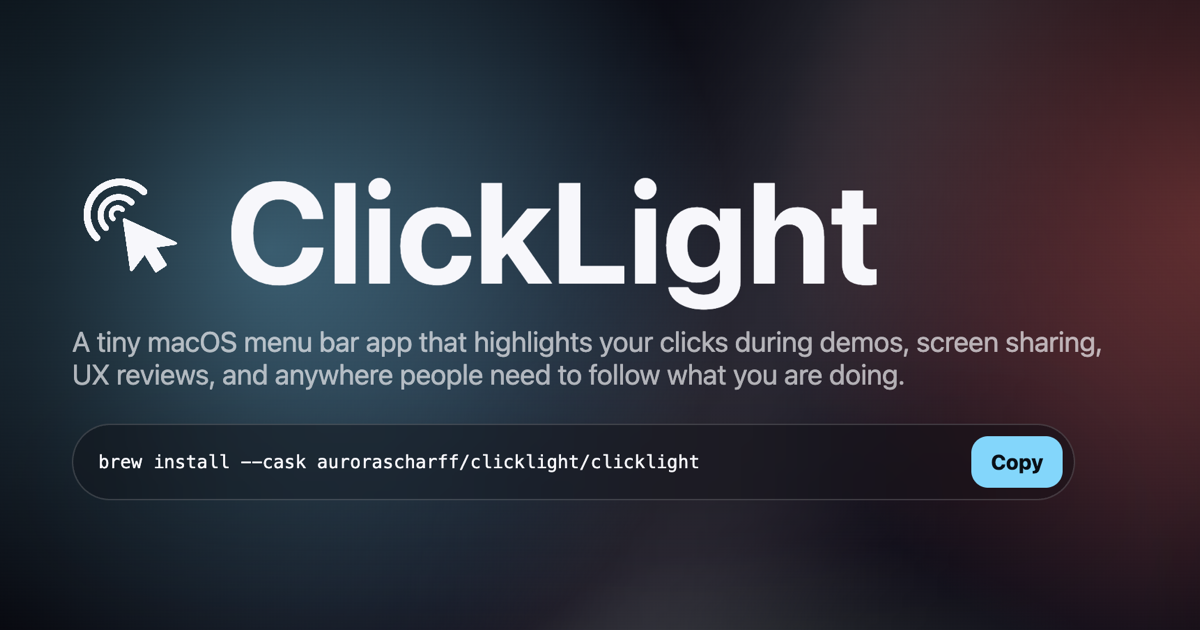
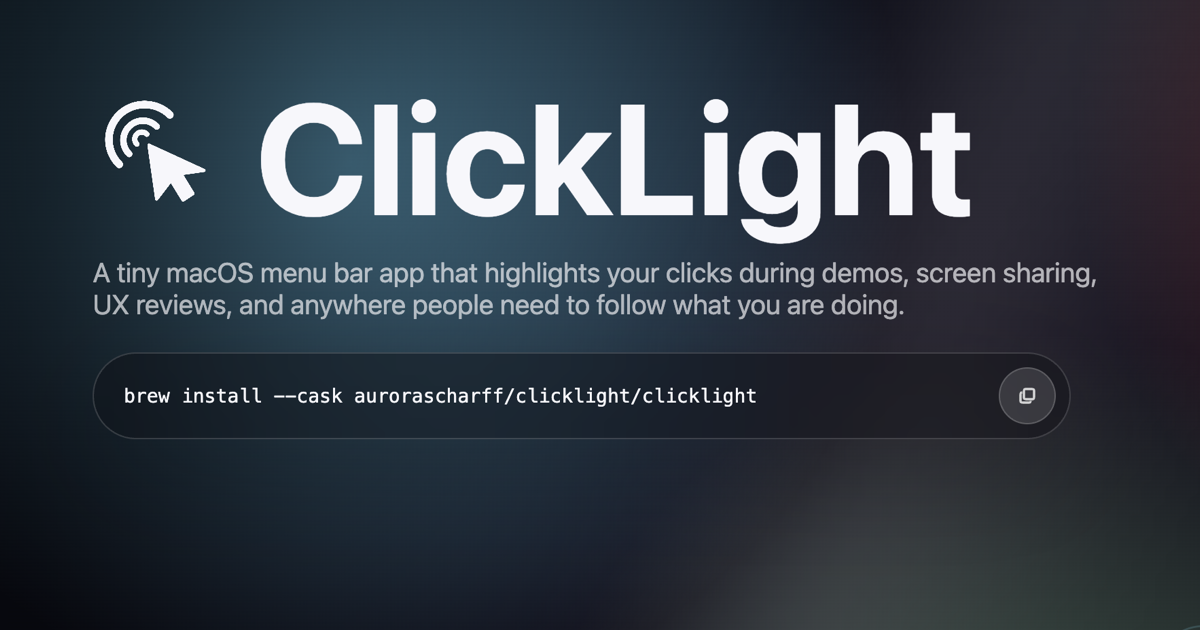
[website] Tweak demo actions and update OG image (#69)
* Update

* Update

* Update

* adress commentd

diff --git a/website/app/page.tsx b/website/app/page.tsx
@@ -59,6 +59,62 @@ type Stroke = {
 const LASER_CURSOR_FADE_MS = 420;
 const LASER_STROKE_FADE_MS = 900;
 const LASER_MIN_POINT_DISTANCE = 2.5;
+// Matches Swift LiveShortcutLabel: 0.72s visible + 0.28s fade.
+const SHORTCUT_VISIBLE_MS = 720;
+const SHORTCUT_FADE_MS = 280;
+
+// Mirrors HotKeyBinding.keyCodeToDisplayString / fallbackKeyCodeString.
+// Returns the on-screen label for the pressed key, or null to skip.
+function displayKey(event: KeyboardEvent): string | null {
+  switch (event.code) {
+    case "Space":
+      return "Space";
+    case "Enter":
+    case "NumpadEnter":
+      return "↩";
+    case "Tab":
+      return "⇥";
+    case "Backspace":
+      return "⌫";
+    case "Delete":
+      return "⌦";
+    case "Escape":
+      return "Esc";
+    case "ArrowLeft":
+      return "←";
+    case "ArrowRight":
+      return "→";
+    case "ArrowDown":
+      return "↓";
+    case "ArrowUp":
+      return "↑";
+    case "PageUp":
+      return "⇞";
+    case "PageDown":
+      return "⇟";
+    case "Home":
+      return "↖";
+    case "End":
+      return "↘";
+  }
+  if (/^F\d{1,2}$/.test(event.code)) return event.code;
+  if (
+    [
+      "MetaLeft",
+      "MetaRight",
+      "ControlLeft",
+      "ControlRight",
+      "AltLeft",
+      "AltRight",
+      "ShiftLeft",
+      "ShiftRight",
+    ].includes(event.code)
+  ) {
+    return null;
+  }
+  if (event.key.length === 1) return event.key.toUpperCase();
+  return null;
+}
 
 const profiles: Record<ProfileName, DemoSettings> = {
   Default: {
@@ -145,6 +201,7 @@ export default function Home() {
   const [laserCursor, setLaserCursor] = useState<TrailPoint | null>(null);
   const [laserCursorFading, setLaserCursorFading] = useState(false);
   const [shortcut, setShortcut] = useState<string | null>(null);
+  const [shortcutFading, setShortcutFading] = useState(false);
   const [copiedInstall, setCopiedInstall] = useState(false);
   const surfaceRef = useRef<HTMLElement>(null);
   const pointerDownRef = useRef(false);
@@ -152,7 +209,8 @@ export default function Home() {
   const lastDragPointRef = useRef<TrailPoint | null>(null);
   const hasDraggedRef = useRef(false);
   const pressedKindRef = useRef<ClickKind>("press");
-  const shortcutTimeoutRef = useRef<number | null>(null);
+  const shortcutFadeTimeoutRef = useRef<number | null>(null);
+  const shortcutRemoveTimeoutRef = useRef<number | null>(null);
   const cursorFadeTimeoutRef = useRef<number | null>(null);
   const cursorRemoveTimeoutRef = useRef<number | null>(null);
 
@@ -164,33 +222,46 @@ export default function Home() {
   useEffect(() => {
     function handleKeyDown(event: KeyboardEvent) {
       if (!settings.keys || event.repeat) return;
+      // Mirrors Swift HotKeyBinding: require at least one non-shift modifier.
       if (!event.metaKey && !event.ctrlKey && !event.altKey) return;
-      const parts = [];
-      if (event.metaKey) parts.push("⌘");
-      if (event.ctrlKey) parts.push("⌃");
-      if (event.altKey) parts.push("⌥");
-      if (event.shiftKey) parts.push("⇧");
-      const key =
-        event.key.length === 1
-          ? event.key.toUpperCase()
-          : event.key.replace("Arrow", "");
-      if (!["Meta", "Control", "Alt", "Shift"].includes(event.key))
-        parts.push(key);
-      if (parts.length === 0) return;
-      setShortcut(parts.join(" "));
-      if (shortcutTimeoutRef.current)
-        window.clearTimeout(shortcutTimeoutRef.current);
-      shortcutTimeoutRef.current = window.setTimeout(
-        () => setShortcut(null),
-        900,
-      );
+
+      const keyString = displayKey(event);
+      if (!keyString) return;
+
+      // Some browser-reserved combos (⌘Space, ⌘Tab, ⌘H, ⌘Q, ⌘W) never reach
+      // JS, but for the ones that do, prevent default browser handling so the
+      // demo overlay isn't interrupted.
+      event.preventDefault();
+
+      let modifiers = "";
+      if (event.ctrlKey) modifiers += "⌃";
+      if (event.altKey) modifiers += "⌥";
+      if (event.shiftKey) modifiers += "⇧";
+      if (event.metaKey) modifiers += "⌘";
+
+      // Swift joins modifiers and key with no separator: "⌘Space", "⌘C".
+      setShortcut(modifiers + keyString);
+      setShortcutFading(false);
+      if (shortcutFadeTimeoutRef.current)
+        window.clearTimeout(shortcutFadeTimeoutRef.current);
+      if (shortcutRemoveTimeoutRef.current)
+        window.clearTimeout(shortcutRemoveTimeoutRef.current);
+      shortcutFadeTimeoutRef.current = window.setTimeout(() => {
+        setShortcutFading(true);
+        shortcutRemoveTimeoutRef.current = window.setTimeout(() => {
+          setShortcut(null);
+          setShortcutFading(false);
+        }, SHORTCUT_FADE_MS);
+      }, SHORTCUT_VISIBLE_MS);
     }
 
     window.addEventListener("keydown", handleKeyDown);
     return () => {
       window.removeEventListener("keydown", handleKeyDown);
-      if (shortcutTimeoutRef.current)
-        window.clearTimeout(shortcutTimeoutRef.current);
+      if (shortcutFadeTimeoutRef.current)
+        window.clearTimeout(shortcutFadeTimeoutRef.current);
+      if (shortcutRemoveTimeoutRef.current)
+        window.clearTimeout(shortcutRemoveTimeoutRef.current);
     };
   }, [settings.keys]);
 
@@ -347,11 +418,24 @@ export default function Home() {
     hasDraggedRef.current = false;
   }
 
+  function clearShortcut() {
+    if (shortcutFadeTimeoutRef.current) {
+      window.clearTimeout(shortcutFadeTimeoutRef.current);
+      shortcutFadeTimeoutRef.current = null;
+    }
+    if (shortcutRemoveTimeoutRef.current) {
+      window.clearTimeout(shortcutRemoveTimeoutRef.current);
+      shortcutRemoveTimeoutRef.current = null;
+    }
+    setShortcut(null);
+    setShortcutFading(false);
+  }
+
   function updateProfile(nextProfile: ProfileName) {
     setProfile(nextProfile);
     setSettings(profiles[nextProfile]);
     clearLaserVisuals();
-    setShortcut(null);
+    clearShortcut();
   }
 
   function toggle(key: ToggleKey) {
@@ -359,6 +443,9 @@ export default function Home() {
       const next = { ...current, [key]: !current[key] };
       if (key === "laser" && !next.laser) {
         clearLaserVisuals();
+      }
+      if (key === "keys" && !next.keys) {
+        clearShortcut();
       }
       return next;
     });
@@ -539,7 +626,9 @@ export default function Home() {
       </div>
 
       {settings.keys && shortcut && (
-        <div className="shortcut-display">{shortcut}</div>
+        <div className={`shortcut-display ${shortcutFading ? "fading" : ""}`}>
+          {shortcut}
+        </div>
       )}
 
       {settings.laser && (activeStroke || fadingStrokes.length > 0) && (

diff --git a/website/app/globals.css b/website/app/globals.css
@@ -94,8 +94,7 @@ button:disabled {
 }
 
 .github-link,
-.menu,
-.shortcut-display {
+.menu {
   backdrop-filter: blur(24px);
   background: rgba(10, 10, 14, 0.42);
   border: 1px solid var(--stroke);
@@ -332,17 +331,23 @@ button:disabled {
 }
 
 .shortcut-display {
-  background: var(--panel-strong);
-  border-radius: 999px;
-  bottom: 28px;
-  color: var(--ink);
-  font-size: 1.15rem;
-  font-weight: 740;
+  background: rgba(15, 15, 15, 0.88);
+  border-radius: 9px;
+  bottom: 34px;
+  color: #ffffff;
+  font-size: 18px;
+  font-weight: 600;
   left: 50%;
-  padding: 12px 18px;
+  line-height: 1;
+  padding: 8px 13px;
   position: fixed;
   transform: translateX(-50%);
+  transition: opacity 280ms ease-out;
   z-index: 7;
+}
+
+.shortcut-display.fading {
+  opacity: 0;
 }
 
 .pulse,